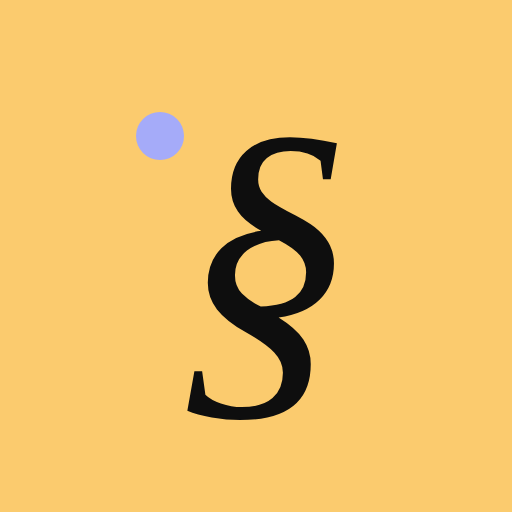
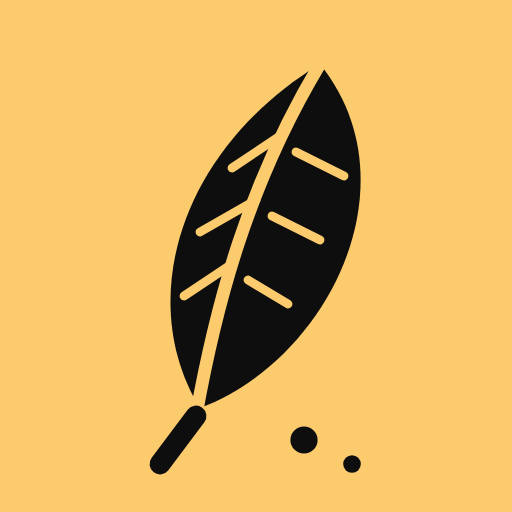
Logó: § helyett toll (quill) — a saját logója alapján
A márkajel mostantól tinta toll marigold korongban, tintaspriccekkel
(a 'hányt szavak' tinta-motívum), a mostani palettában. favicon.svg + a
teljes PNG ikonkészlet + a fejléc-logó (main.js) frissítve tollra.

Claude-Session: https://claude.ai/code/session_01JdwpGDPn7LQQMHzarsaEPB

Changed region(s): [[0.2812, 0.125, 0.7188, 0.9375], [0.25, 0.2188, 0.375, 0.3125], [0.6562, 0.875, 0.7188, 0.9375]]

diff --git a/assets/main.js b/assets/main.js
@@ -90,8 +90,10 @@
     svg.setAttribute('aria-hidden', 'true');
     svg.innerHTML =
       '<circle cx="32" cy="32" r="32" fill="#fbcb6e"/>' +
-      '<circle cx="20" cy="18" r="3" fill="#a5abf9"/>' +
-      '<text x="33" y="47" text-anchor="middle" font-family="\'Instrument Serif\', Georgia, serif" font-style="italic" font-size="44" fill="#0e0e0e">§</text>';
+      '<path d="M40 8 C 22 19, 17 38, 25 51 C 41 45, 52 23, 40 8 Z" fill="#0e0e0e"/>' +
+      '<path d="M40 8 C 31 23, 27 38, 24.5 52" stroke="#fbcb6e" stroke-width="1.6" fill="none" stroke-linecap="round"/>' +
+      '<path d="M24.5 52 L 20 58" stroke="#0e0e0e" stroke-width="2.6" fill="none" stroke-linecap="round"/>' +
+      '<circle cx="38" cy="55" r="1.7" fill="#0e0e0e"/><circle cx="44" cy="58" r="1.1" fill="#0e0e0e"/>';
     mark.insertBefore(svg, mark.firstChild);
   })();
 
